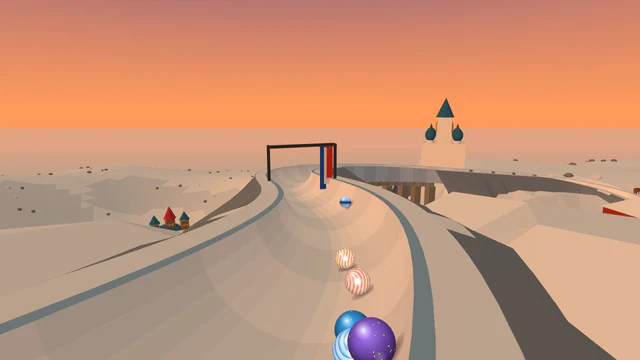
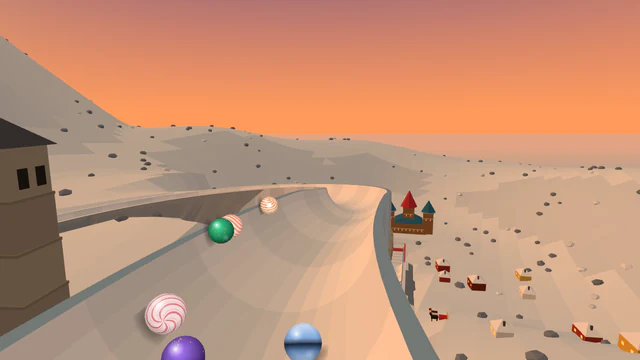
Boost-pad jump on Veliky Ustyug Frost Run (river jump), still switched off
Moses approved the jump after its clip (19 Oct). The river jump replaces the jib line on the frozen
river (a longer straight; its billboard moved to the wooden street bends, out of the rising follow
camera's way). Passed its full report again (48 of 48), the fairness and first-20-seconds checks
included. Data update 2027-03-19-veliky-ustyug-frost-run-river-jump. No live track changes.

Claude-Session: https://claude.ai/code/session_011vSSkqNPL9kncfzrwF15wS

diff --git a/src/tracks/veliky-ustyug-frost-run.js b/src/tracks/veliky-ustyug-frost-run.js
@@ -1,41 +1,41 @@
 'use strict';
 
 // Veliky Ustyug Frost Run: Holiday Season 2026 track (World Tour), Track of the Day on 28 December and
-// again on 2 January. A deep-frost day under a low sun in the old wooden town: down to the river, a jib
-// line along the frozen river, past troikas and the white church's onion domes, to the carved wooden
+// again on 2 January. A deep-frost day under a low sun in the old wooden town: down to the river, a jump
+// over the frozen river, past troikas and the white church's onion domes, to the carved wooden
 // residence with its towers (shown as a building only).
-const { track, opening, straight, sBends, sweep, spiral, hairpin, plunge, runIn, peg, slalom, swipe, rumble, jibLine, curtain } = require('../trackKit');
+const { boostJump, track, opening, straight, sBends, sweep, spiral, hairpin, plunge, runIn, peg, slalom, swipe, rumble, curtain } = require('../trackKit');
 
 module.exports = track({
   slug: 'veliky-ustyug-frost-run',
   name: 'Veliky Ustyug Frost Run',
   season: 'holiday-2026',
   difficulty: 'extreme',
-  description: 'A deep-frost day under a low sun in an old wooden town: a jib line along the frozen river, past troikas and a white church\'s onion domes, to a carved wooden residence with tall towers.',
+  description: 'A deep-frost day under a low sun in an old wooden town: a jump over the frozen river, past troikas and a white church\'s onion domes, to a carved wooden residence with tall towers.',
   surface: 'snow',
   biome: 'arctic',
   lighting: 'sunset',
   variants: ['snow'],
-  signature: 'Frozen river jib line',
+  signature: 'Frozen river jump',
   tvCameras: [
-    { section: 'Frozen river jib line', at: 0.6, side: 'left', distance: 8, height: 14 },
+    { section: 'Frozen river jump', at: 0.6, side: 'left', distance: 8, height: 14 },
     { section: 'Bell tower spiral', at: 0.5, side: 'left', distance: 9, height: 14 },
   ],
   start: { landmark: 'onion-dome-church', gate: 'paddle', shots: { countdown: 'side', launch: 'side' } },
   finish: { landmark: 'wooden-residence', scenery: ['wooden-houses'] },
   designChanges: [
-    'A clean drop at the gate (the field let go in waves) and bends down to the river, then the jib line along the frozen river, as planned.',
+    'A clean drop at the gate (the field let go in waves) and bends down to the river, then the river jump over the frozen river (the boost-pad jump, approved by Moses on 19 Oct, in place of the planned jib line).',
     'The residence is a carved wooden house with towers, shown as a building only (no characters); the church is generic architecture (onion domes, a bell tower) with no symbols or figures. No names on anything drawn.',
     'Banner gantries hang over the wooden street bends and the church sweep (they give the weakest marbles their chances).',
   ],
   opening: opening('clean-drop', { side: 'left', names: { plunge: 'Town hill drop', bends: 'Down to the river' } }),
   sections: [
     {
-      name: 'Frozen river jib line', shape: straight(120, { grade: 0.115 }), billboards: 1,
+      name: 'Frozen river jump', shape: straight(140, { grade: 0.115 }),
       obstacles: [peg({ costume: 'ice-lantern', at: 0.05, line: 'left' })],
-      features: [jibLine({ from: 0.15 })], landmarks: [{ name: 'troika', side: 'right', at: 0.5, distance: 8 }],
+      features: [boostJump({ at: 0.25, look: 'river-jump' })], landmarks: [{ name: 'troika', side: 'right', at: 0.5, distance: 8 }],
     },
-    { name: 'Wooden street bends', shape: sBends({ first: 'right', radius: 65, degrees: 80, grade: 0.12 }), scenery: ['wooden-houses'], billboards: 2, obstacles: [curtain({ costume: 'banner-gantry', at: 0.5, side: 'left' })] },
+    { name: 'Wooden street bends', shape: sBends({ first: 'right', radius: 65, degrees: 80, grade: 0.12 }), scenery: ['wooden-houses'], billboards: 3, obstacles: [curtain({ costume: 'banner-gantry', at: 0.5, side: 'left' })] },
     { name: 'Run to the hairpin', shape: straight(45, { grade: 0.12 }), obstacles: [peg({ costume: 'ice-lantern', at: 0.15, line: 'center' }), peg({ costume: 'ice-lantern', at: 0.32, line: 'left' }), peg({ costume: 'ice-lantern', at: 0.5, line: 'right' })] },
     { name: 'Hairpin', shape: hairpin({ side: 'left' }), obstacles: [swipe({ costume: 'stag', side: 'high' })] },
     {

diff --git a/docs/07-gaps-roadmap.md b/docs/07-gaps-roadmap.md
@@ -29,7 +29,7 @@
 - **Custom marble labels.** The column exists, but a word filter is needed first.
 - **Subscriptions** (later). The season pass is being built (see "Holiday Season pass" above).
 - **Automated social posting** of race clips, approved by Moses.
-- **Holiday Season tracks (31 planned): being built.** Each passes its full report and is added **switched off** and in the Holiday Season pass (`season_key` `holiday-2026`), from `docs/data_updates/2027-02-17-…`; they are switched on before 1 Dec. Added so far: Tromsø Aurora Grand Prix, Zermatt Marble Grand Prix, Gamla Stan Christmas Run, Outback Christmas Burst, Cape Town Summer Christmas, Québec Old Town Spins, Medellín Lights, Oaxaca Posadas Run, Nuremberg Christmas Market Run, Belgrade Badnjak Run, Coptic Cairo Lights, Veliky Ustyug Frost Run, New York Winter Run, Accra December Beats, Harbin Ice City, Sapporo Snow Sculptures, Queenstown Pōhutukawa Run, Buenos Aires Summer Christmas, Edinburgh Hogmanay Grand Prix, Reykjavik Yule Lights, Lalibela Genna Spins, San Fernando Lantern Spins, Trinidad Parang Run, Goa Star Lanterns, Seoul Winter Lights, Gingerbread Village, Sydney Harbour New Year, Rio New Year Burst, Ice Palace, Night Train North. All 31 are drafted; the rest wait for their full reports (about 18 minutes each).
+- **Holiday Season tracks (31 planned): being built.** Each passes its full report and is added **switched off** and in the Holiday Season pass (`season_key` `holiday-2026`), from `docs/data_updates/2027-02-17-…`; they are switched on before 1 Dec. Added so far: Tromsø Aurora Grand Prix, Zermatt Marble Grand Prix, Gamla Stan Christmas Run, Outback Christmas Burst, Cape Town Summer Christmas, Québec Old Town Spins, Medellín Lights, Oaxaca Posadas Run, Nuremberg Christmas Market Run, Belgrade Badnjak Run, Coptic Cairo Lights, Veliky Ustyug Frost Run, New York Winter Run, Accra December Beats, Harbin Ice City, Sapporo Snow Sculptures, Queenstown Pōhutukawa Run, Buenos Aires Summer Christmas, Edinburgh Hogmanay Grand Prix, Reykjavik Yule Lights, Lalibela Genna Spins, San Fernando Lantern Spins, Trinidad Parang Run, Goa Star Lanterns, Seoul Winter Lights, Gingerbread Village, Sydney Harbour New Year, Rio New Year Burst, Ice Palace, Night Train North. All 31 are drafted; the rest wait for their full reports (about 18 minutes each). The boost-pad jump is on Veliky Ustyug Frost Run (river jump) and Sapporo Snow Sculptures (ski jump).
 - **Track and Field (10 tracks): waiting for Moses's review.** All built and passing their full reports, added **switched off** (`docs/data_updates/2027-02-05-…` to `2027-02-15-…`): Marble Stadium Sprint, Berlin Blue Lanes, Bislett Mile, Eugene Hurdles, Beijing Nest 200, Tokyo Photo Finish, Stockholm 1912 Relay, London Steeplechase, Coliseum Anchor Leg, Zurich Golden Lap. Results and preview links: the project doc `claude/track-and-field-plan.md`. To switch them on: a data update setting `is_active` for the ten slugs; the landing page's Track and Field card then appears by itself.
 - **Block Series: waiting for Moses's review.** All 10 tracks are built and pass their full reports, added **switched off** (`docs/data_updates/2027-01-16-…` to `2027-01-25-…`).
 - **Canyon and Block tracks 11–15 (ten tracks): waiting for Moses's review.** Built 16–17 Oct 2026, each passing its full report, added **switched off**: Antelope Slot Spins, Verdon Burst, Tiger Leaping Spins, Wadi Mujib Burst, Waimea Free Fall (`2027-01-26-…` to `2027-01-30-…`) and Sky Islands, Voxel Harbor, Sunstone Temple, Chain Reaction, Bonus Round (`2027-01-31-…` to `2027-02-04-…`). Switching on: a data update setting `is_active` for the slugs. Details and preview links: the project docs `claude/canyon-series-plan.md` and `claude/block-series-plan.md`. To switch them on: review the preview links and the track pictures (`/preview/banners`), then a data update setting `is_active` for the ten slugs. The landing page's Blocks card appears by itself once they are live. The Canyon Series (10 tracks) is live. The landing page and the Help Centre count tracks and series from the live track list; a new series needs its card in `SERIES` in `client/src/site/landing/LandingPage.jsx` (marked `true` to stay hidden until it has live tracks).

diff --git a/docs/06-decisions.md b/docs/06-decisions.md
@@ -4,6 +4,8 @@
 
 | Date | Decision | Why |
 |---|---|---|
+| 2026-10-19 | **Bends instead of a lopsided splitter** (Moses): a splitter must give its second channel a real share (roughly 30–70%) and pass the fairness checks, or be replaced by bends. Seoul Winter Lights, Rio New Year Burst, Ice Palace and Night Train North have bends under a curtain instead. | A channel almost no marble takes looks unfinished. |
+| 2026-10-19 | **The boost-pad jump goes on holiday tracks** (Moses, after seeing its clip): the river jump on Veliky Ustyug Frost Run's frozen river and the ski jump on Sapporo Snow Sculptures' park straight, both still switched off, each passing its full report again. No live track changes, so no record time is affected. | The best TV moment the kit has, where it fits the place; only switched-off tracks, so existing records stay fair. |
 | 2026-10-18 | **Winter Wonders is a family of its own** (`winter-wonders`, shown as "Winter Wonders"): the Holiday Season's four fairy-tale winter tracks (Gingerbread Village, Ice Palace, Night Train North, Sleigh Bell Forest), built as World Tour tracks on the ground with their own landmarks and costumes, compared for variety among themselves, switched off and in the pass like the other holiday tracks. Pinball and Arcade each got two new art styles for the season. | The holiday plan lists Winter Wonders as its own series; a family keeps its openings and start shots apart from the World Tour's (already full of peg and clean drops) and lists it on its own in the track picker. |
 | 2026-10-18 | **Three new start types and a fireworks sky for the holiday tracks** (looks only): `lighthouse`, `ski-jump` and `castle-tower`, because every older start type was already used twice by coasters and canyons (the variety rule: at most two of a family share one); and `fireworks-night`, fireworks bursting round the sky all race long, for the New Year tracks. | So the 31 holiday tracks keep the variety rules without relaxing them. |
 | 2026-10-18 | **The pass can be test-bought before 1 Dec** by App Review and our testers: Apple sandbox or TestFlight, Google Play licence testing, and Stripe test mode for tester accounts (`PASS_TESTERS`). Real purchases stay refused until 1 Dec 2026 00:00 Swedish time. | Moses, 18 Oct: App Review must be able to buy the pass before it goes on sale. |
